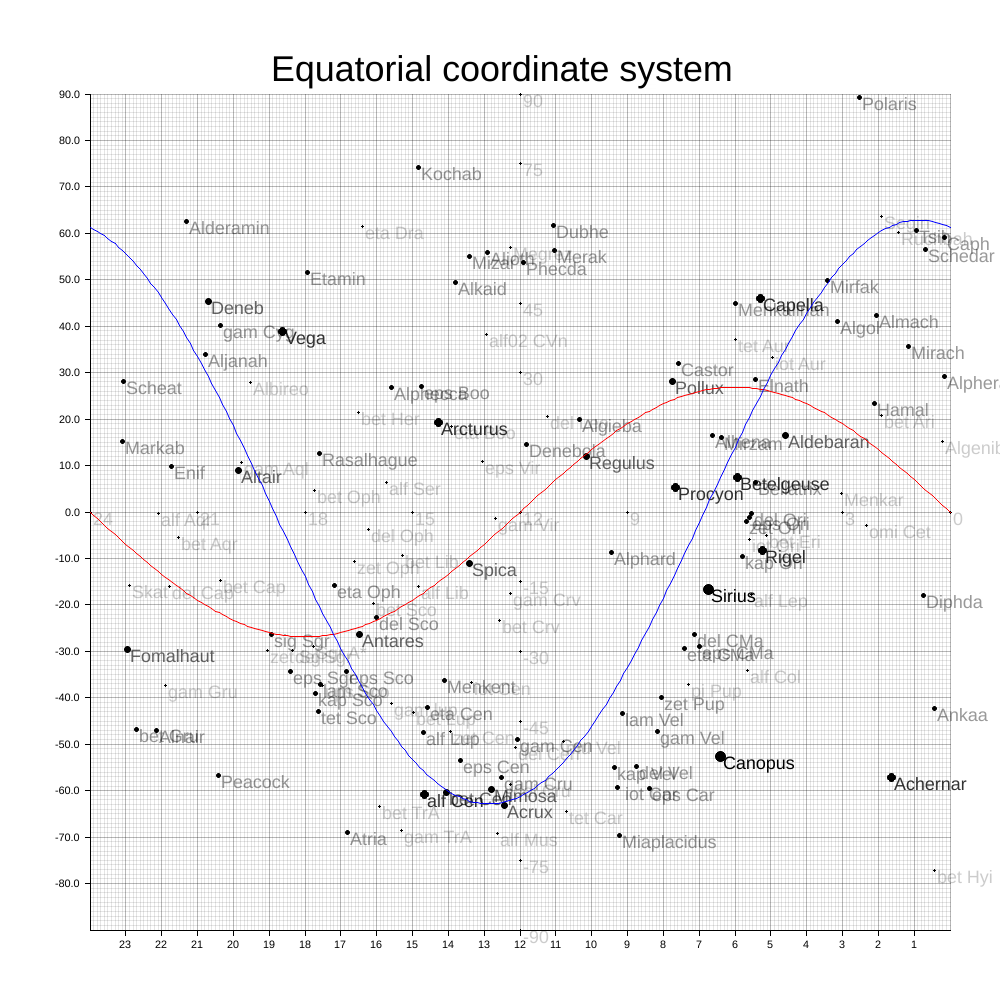
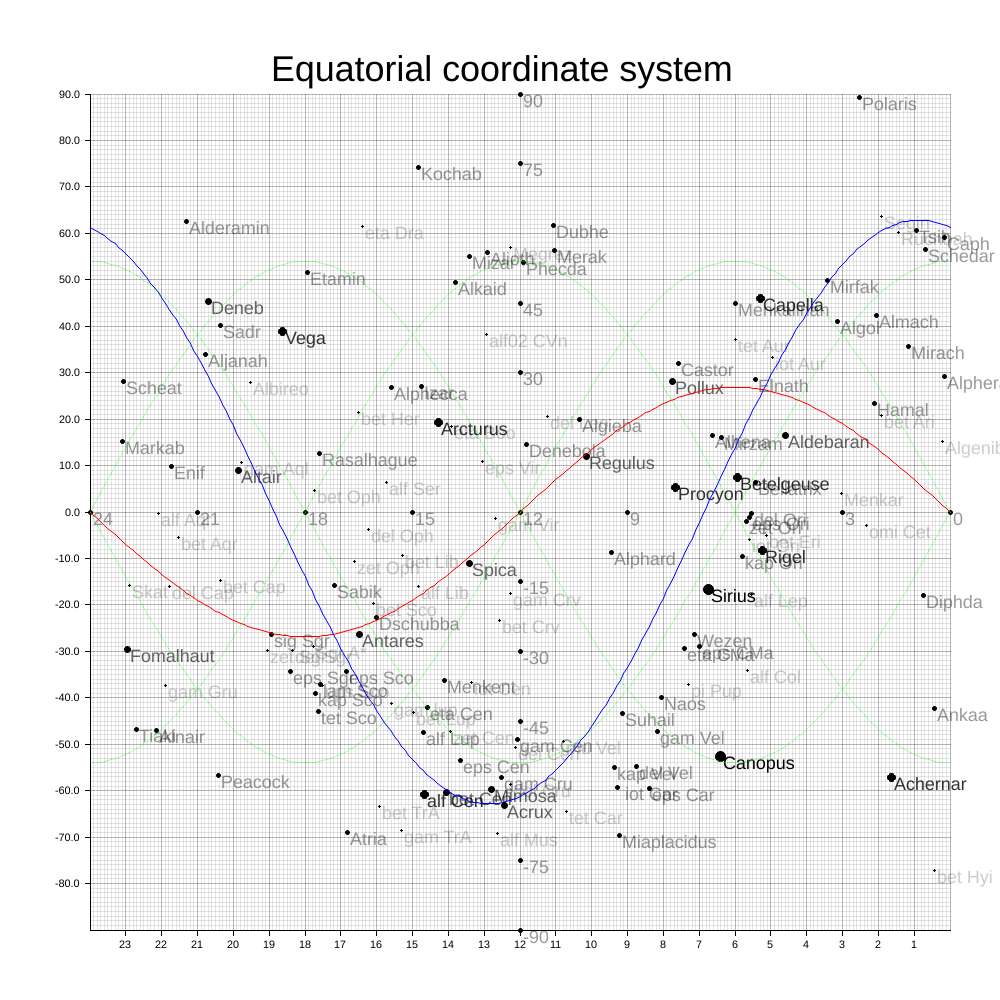
change some star name

diff --git a/stars/src/main.rs b/stars/src/main.rs
@@ -280,8 +280,8 @@ fn main() -> Result<(), Box<dyn std::error::Error>> {
             1.79,
         ),
         (
-            // "Wezen",
-            "del CMa",
+            "Wezen",
+            // "del CMa",
             ((07, 08, 23.4805188773), (-1, 26, 23, 35.460726261)),
             1.84,
         ),
@@ -358,8 +358,8 @@ fn main() -> Result<(), Box<dyn std::error::Error>> {
             2.10,
         ),
         (
-            "bet Gru",
-            // "Tiaki",
+            // "bet Gru",
+            "Tiaki",
             ((22, 42, 40.05027), (-1, 46, 53, 04.4752)),
             2.11,
         ),
@@ -376,8 +376,8 @@ fn main() -> Result<(), Box<dyn std::error::Error>> {
             2.17,
         ),
         (
-            "lam Vel",
-            // "Suhail",
+            // "lam Vel",
+            "Suhail",
             ((09, 07, 59.75787), (-1, 43, 25, 57.3273)),
             2.21,
         ),
@@ -388,14 +388,14 @@ fn main() -> Result<(), Box<dyn std::error::Error>> {
             2.230,
         ),
         (
-            // "Sadr",
-            "gam Cyg",
+            "Sadr",
+            // "gam Cyg",
             ((20, 22, 13.70184), (1, 40, 15, 24.0450)),
             2.23,
         ),
         (
-            // "Naos",
-            "zet Pup",
+            "Naos",
+            // "zet Pup",
             ((08, 03, 35.04754), (-1, 40, 00, 11.3321)),
             2.25,
         ),
@@ -428,8 +428,8 @@ fn main() -> Result<(), Box<dyn std::error::Error>> {
             2.31,
         ),
         (
-            // "Dschubba",
-            "del Sco",
+            "Dschubba",
+            // "del Sco",
             ((16, 00, 20.00528), (-1, 22, 37, 18.1431)),
             2.32,
         ),
@@ -452,8 +452,8 @@ fn main() -> Result<(), Box<dyn std::error::Error>> {
             2.386,
         ),
         (
-            "eps Boo",
-            // "Izar",
+            // "eps Boo",
+            "Izar",
             ((14, 44, 59.21746), (1, 27, 04, 27.2099)),
             2.39,
         ),
@@ -482,8 +482,8 @@ fn main() -> Result<(), Box<dyn std::error::Error>> {
             2.42,
         ),
         (
-            "eta Oph",
-            // "Sabik",
+            // "eta Oph",
+            "Sabik",
             ((17, 10, 22.68689), (-1, 15, 43, 29.6639)),
             2.42,
         ),
@@ -785,27 +785,27 @@ fn main() -> Result<(), Box<dyn std::error::Error>> {
         ("del Cen", ((12, 08, 21.49764), (-1, 50, 43, 20.7386)), 2.52),
         ("gam TrA", ((15, 18, 54.58198), (-1, 68, 40, 46.3654)), 2.89),
         ("Sgr A*", ((17, 45, 40.03599), (-1, 29, 0, 28.1699)), 3.0),
-        ("0", ((0, 0, 0.0), (1, 0, 0, 0.0)), 3.0),
-        ("3", ((3, 0, 0.0), (1, 0, 0, 0.0)), 3.0),
+        ("0", ((0, 0, 0.0), (1, 0, 0, 0.0)), 2.0),
+        ("3", ((3, 0, 0.0), (1, 0, 0, 0.0)), 2.0),
         // ("6", ((6, 0, 0.0), (1, 0, 0, 0.0)), 3.0),
-        ("9", ((9, 0, 0.0), (1, 0, 0, 0.0)), 3.0),
-        ("12", ((12, 0, 0.0), (1, 0, 0, 0.0)), 3.0),
-        ("15", ((15, 0, 0.0), (1, 0, 0, 0.0)), 3.0),
-        ("18", ((18, 0, 0.0), (1, 0, 0, 0.0)), 3.0),
-        ("21", ((21, 0, 0.0), (1, 0, 0, 0.0)), 3.0),
-        ("24", ((24, 0, 0.0), (1, 0, 0, 0.0)), 3.0),
-        ("90", ((12, 0, 0.0), (1, 90, 0, 0.0)), 3.0),
-        ("75", ((12, 0, 0.0), (1, 75, 0, 0.0)), 3.0),
+        ("9", ((9, 0, 0.0), (1, 0, 0, 0.0)), 2.0),
+        ("12", ((12, 0, 0.0), (1, 0, 0, 0.0)), 2.0),
+        ("15", ((15, 0, 0.0), (1, 0, 0, 0.0)), 2.0),
+        ("18", ((18, 0, 0.0), (1, 0, 0, 0.0)), 2.0),
+        ("21", ((21, 0, 0.0), (1, 0, 0, 0.0)), 2.0),
+        ("24", ((24, 0, 0.0), (1, 0, 0, 0.0)), 2.0),
+        ("90", ((12, 0, 0.0), (1, 90, 0, 0.0)), 2.0),
+        ("75", ((12, 0, 0.0), (1, 75, 0, 0.0)), 2.0),
         // ("60", ((12, 0, 0.0), (1, 60, 0, 0.0)), 3.0),
-        ("45", ((12, 0, 0.0), (1, 45, 0, 0.0)), 3.0),
-        ("30", ((12, 0, 0.0), (1, 30, 0, 0.0)), 3.0),
+        ("45", ((12, 0, 0.0), (1, 45, 0, 0.0)), 2.0),
+        ("30", ((12, 0, 0.0), (1, 30, 0, 0.0)), 2.0),
         // ("15", ((12, 0, 0.0), (1, 15, 0, 0.0)), 3.0),
-        ("-15", ((12, 0, 0.0), (-1, 15, 0, 0.0)), 3.0),
-        ("-30", ((12, 0, 0.0), (-1, 30, 0, 0.0)), 3.0),
-        ("-45", ((12, 0, 0.0), (-1, 45, 0, 0.0)), 3.0),
+        ("-15", ((12, 0, 0.0), (-1, 15, 0, 0.0)), 2.0),
+        ("-30", ((12, 0, 0.0), (-1, 30, 0, 0.0)), 2.0),
+        ("-45", ((12, 0, 0.0), (-1, 45, 0, 0.0)), 2.0),
         // ("-60", ((12, 0, 0.0), (-1, 60, 0, 0.0)), 3.0),
-        ("-75", ((12, 0, 0.0), (-1, 75, 0, 0.0)), 3.0),
-        ("-90", ((12, 0, 0.0), (-1, 90, 0, 0.0)), 3.0),
+        ("-75", ((12, 0, 0.0), (-1, 75, 0, 0.0)), 2.0),
+        ("-90", ((12, 0, 0.0), (-1, 90, 0, 0.0)), 2.0),
     ];
     let stars = stars.into_iter().map(Star::from).collect::<Vec<_>>();
 
@@ -876,6 +876,25 @@ fn main() -> Result<(), Box<dyn std::error::Error>> {
         }),
         &Blue,
     ))?;
+
+    for i in 0..4 {
+        chart.draw_series(LineSeries::new(
+            (-240_i64..=0).map(|x| {
+                let x = (x as f64) / 10_f64;
+
+                (
+                    x,
+                    Delta::from((1, 90-36, 0, 0.0)).to_degree()
+                        * ((x / 24_f64) * (std::f64::consts::PI * 2_f64)
+                            - (i as f64*std::f64::consts::PI / 2_f64)
+                        )
+                        .sin(),
+                )
+            }),
+            &Green.mix(0.3),
+        ))?;
+    }
+
     Ok(())
 }
 
